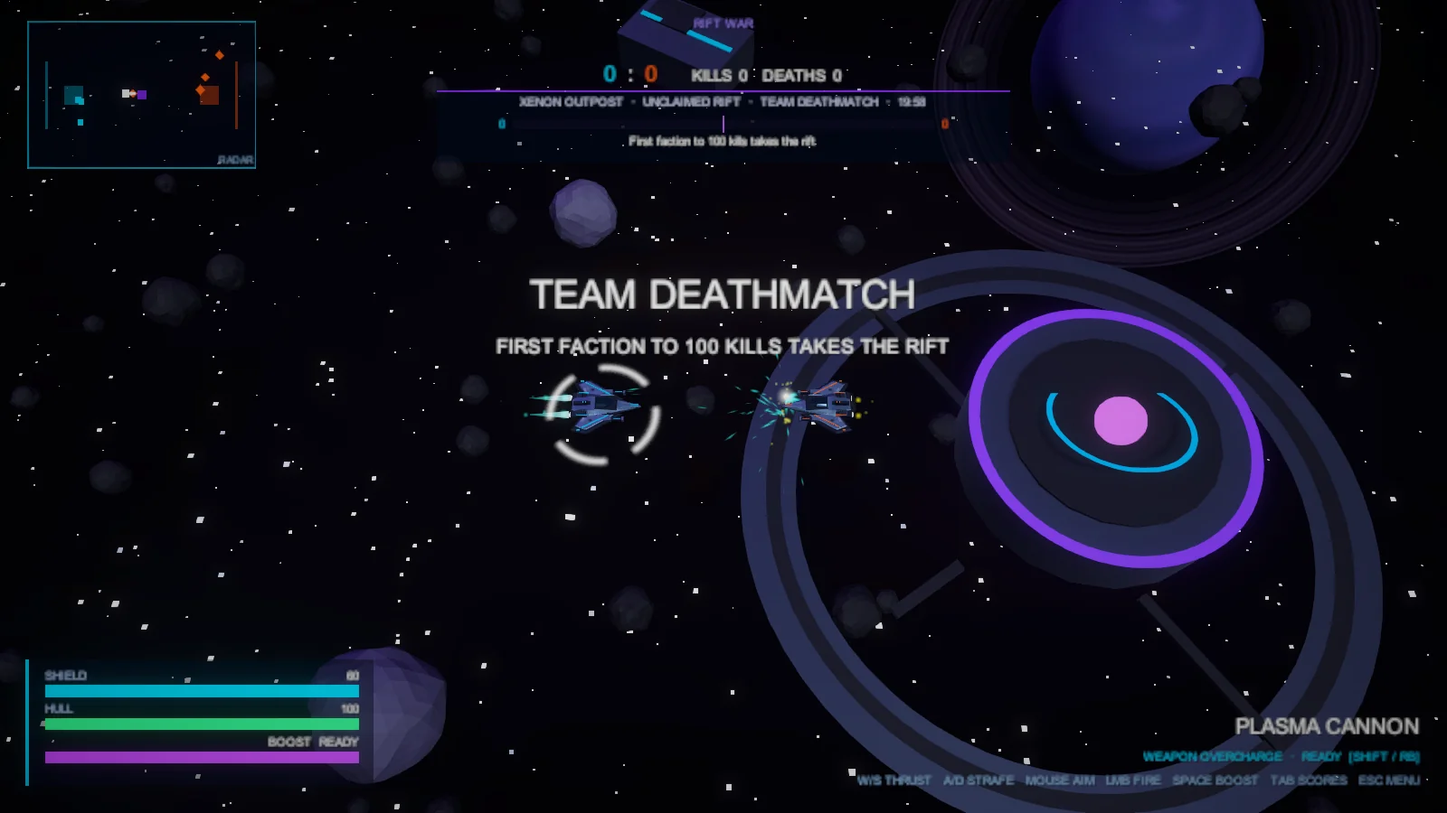
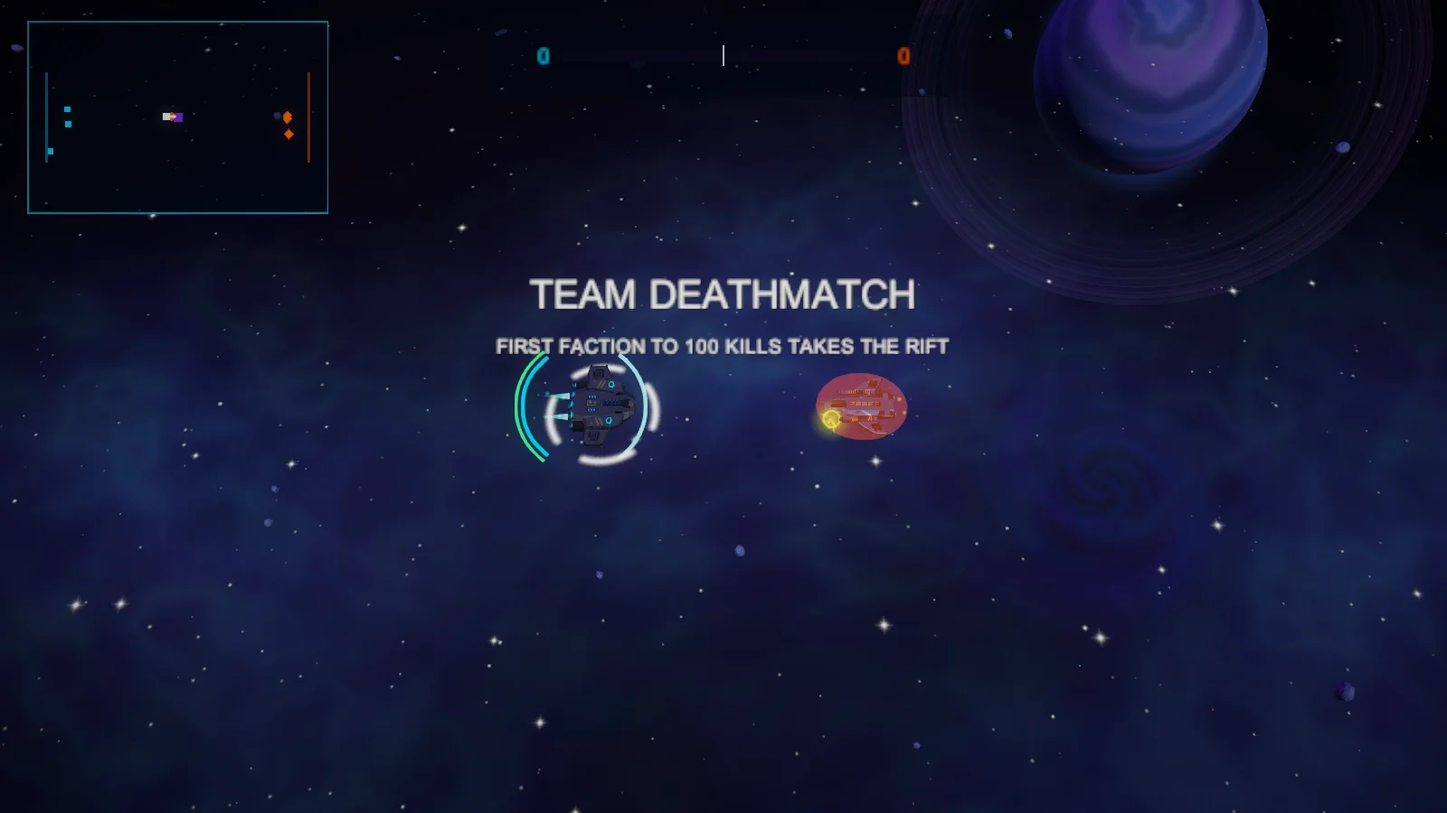
feat: sync website screenshots, copy, and controls with current game state

diff --git a/index.html b/index.html
@@ -40,11 +40,11 @@
         <h1 id="hero-title"><span class="sr-only">Xenon Rift: </span>Your ship.<br>Your fleet.<br><span class="text-cyan">Your fight.</span></h1>
         <p class="hero-description">Fly a fighter in <strong>12v12 Fleet Battles</strong> around carriers and destroyers. Defend your fleet, take theirs apart, and push the front line across a persistent galaxy.</p>
         <a class="btn btn-primary" href="#play">Join the playtest <span aria-hidden="true">↗</span></a>
-        <p class="hero-note">Mac playtests · iPhone, iPad &amp; Apple TV controller testing</p>
+        <p class="hero-note">Mac, iPhone, iPad &amp; Apple TV TestFlight · Touch &amp; controller support</p>
       </div>
       <figure class="hero-visual">
-        <a class="capture-link" href="./images/gameplay/fleet.webp" data-full="./images/gameplay/fleet.webp" data-caption="Carrier, destroyers, and fighters at Xenon Outpost — in-game development capture" aria-label="Enlarge Fleet Battle capture">
-          <img src="./images/gameplay/fleet.webp" srcset="./images/gameplay/fleet-800.webp 800w, ./images/gameplay/fleet.webp 1600w" sizes="(max-width: 900px) 92vw, 55vw" width="1600" height="900" alt="A cyan carrier and destroyers alongside fighters and the orange enemy fleet in open space" fetchpriority="high">
+        <a class="capture-link" href="./images/gameplay/fleet.webp" data-full="./images/gameplay/fleet.webp" data-caption="Carrier, destroyers, fighters, and the fleet-strip HUD at Xenon Outpost — in-game development capture" aria-label="Enlarge Fleet Battle capture">
+          <img src="./images/gameplay/fleet.webp" srcset="./images/gameplay/fleet-800.webp 800w, ./images/gameplay/fleet.webp 1600w" sizes="(max-width: 900px) 92vw, 55vw" width="1600" height="900" alt="A cyan carrier and destroyers alongside fighters, enemy fleet markers, and the top-center fleet strip in open space" fetchpriority="high">
           <span class="capture-enlarge" aria-hidden="true">↗</span>
         </a>
         <figcaption>In-game development capture · Xenon Outpost</figcaption>
@@ -54,9 +54,9 @@
     <section class="section container" id="fleet-battle" aria-labelledby="battle-title">
       <div class="section-heading"><p class="eyebrow">SOL ALLIANCE / ZHURAK HEGEMONY</p><h2 id="battle-title">Small fighter. Big battle.</h2></div>
       <div class="feature-grid">
-        <article><h3>Break the enemy fleet</h3><p>Each faction fields a carrier and two or three destroyers. Escort your ships, knock out enemy turrets and launch bays, and destroy every enemy capital ship to win the rift. No match clock.</p></article>
-        <article><h3>Move the front line</h3><p>Pick an open front on the galactic map and drop into its battle. Victories change control of rifts. Take the enemy capital to win the war and begin a new cycle. Bots fill empty fighter slots and keep battles moving when pilots are away.</p></article>
-        <article><h3>Learn offline</h3><p>Practice Fleet Battle or Team Deathmatch against bots without an account or server connection. Online, launch from your fleet’s working bays and watch for reactor blasts and forming gravity wells.</p></article>
+        <article><h3>Break the enemy fleet</h3><p>Each faction fields a carrier and two or three destroyers armed with heavy main guns and point-defense turrets. Strip enemy turrets, wreck the carrier’s launch bays, or drain its 100-fighter reserve so their pilots must warp in from their base Xenon Rift with double the respawn wait. Destroy every enemy capital ship to win the rift. No match clock.</p></article>
+        <article><h3>Move the front line</h3><p>Choose your side once per Rift Cycle—your faction holds until a capital falls and the galaxy re-forms. Pick an open front on the galactic map and drop into its battle. Victories capture and lock rifts, opening adjacent fronts. Bots fill empty fighter slots and keep battles moving when pilots are away.</p></article>
+        <article><h3>Learn offline</h3><p>Practice a 12v12 Fleet Battle, Team Deathmatch, or a full Offline Rift War against bots without an account or server connection. Track both fleets on the visual fleet-strip HUD and ship rings, while the ship-computer announcer calls out carrier attacks, reactor blasts, and forming gravity wells.</p></article>
       </div>
     </section>
 
@@ -64,9 +64,9 @@
       <div class="container">
         <div class="section-heading"><p class="eyebrow">THREE SHIPS / THREE WAYS TO FIGHT</p><h2 id="ships-title">Find your fighter.</h2></div>
         <div class="ships-grid">
-          <article class="ship-card"><img src="./images/ships/interceptor.webp" width="720" height="540" alt="White delta-wing Interceptor with twin nose cannons and cyan energy conduits" loading="lazy"><div class="ship-copy"><h3>Interceptor</h3><p>Fast and light. Pick your angle, strike, and slip away.</p><div class="ability"><span>SPECIAL / PHASE DASH</span><p>Dash in your movement direction to reposition. You cannot fire during the dash.</p></div></div></article>
+          <article class="ship-card"><img src="./images/ships/interceptor.webp" width="720" height="540" alt="White delta-wing Interceptor with twin nose cannons and cyan energy conduits" loading="lazy"><div class="ship-copy"><h3>Interceptor</h3><p>Fast and light. Pick your angle, strike, and slip away.</p><div class="ability"><span>SPECIAL / PHASE DASH</span><p>Dash in your movement direction to reposition while taking reduced damage. You cannot fire during the dash.</p></div></div></article>
           <article class="ship-card"><img src="./images/ships/striker.webp" width="720" height="540" alt="Dark tactical Striker with outboard cannon pods, swept wings, and cyan dorsal conduits" loading="lazy"><div class="ship-copy"><h3>Striker</h3><p>Balanced speed and firepower. A good place to start.</p><div class="ability"><span>SPECIAL / WEAPON OVERCHARGE</span><p>Temporarily increase your cannon’s fire rate to press the attack.</p></div></div></article>
-          <article class="ship-card"><img src="./images/ships/dreadnought.webp" width="720" height="540" alt="Broad siege Dreadnought with armored shoulders, a central reactor cage, and five stern thrusters" loading="lazy"><div class="ship-copy"><h3>Dreadnought</h3><p>Heavy armor and shields. Trade speed for staying power.</p><div class="ability"><span>SPECIAL / PHOTON TORPEDOES</span><p>Launch a three-torpedo salvo that hits capital ships and their subsystems especially hard.</p></div></div></article>
+          <article class="ship-card"><img src="./images/ships/dreadnought.webp" width="720" height="540" alt="Broad siege Dreadnought with armored shoulders, a central reactor cage, and five stern thrusters" loading="lazy"><div class="ship-copy"><h3>Dreadnought</h3><p>Heavy armor and shields. Trade speed for staying power.</p><div class="ability"><span>SPECIAL / PHOTON TORPEDOES</span><p>Launch a three-torpedo salvo that deals 5× damage to capital ships, turrets, and launch bays.</p></div></div></article>
         </div>
         <p class="section-footnote">All three ships are available in practice and online. Balance and visuals are still evolving.</p>
       </div>
@@ -78,17 +78,17 @@
         <a class="btn btn-primary" href="mailto:support@codersbrew.com?subject=Xenon%20Rift%20Mac%20playtest">Request Mac playtest <span aria-hidden="true">↗</span></a>
         <a class="btn btn-secondary" href="mailto:support@codersbrew.com?subject=Xenon%20Rift%20Apple%20device%20testing">Ask about Apple device testing <span aria-hidden="true">↗</span></a>
       </div>
-      <p class="playtest-note">These links open your email app, not a download. Access is not guaranteed. Mac supports keyboard &amp; mouse or gamepad. iPhone, iPad, and Apple TV gameplay requires a compatible controller; no touch flight controls yet. Siri Remote alone is not supported.</p>
+      <p class="playtest-note">These links open your email app, not a download. Access is not guaranteed. Mac supports keyboard &amp; mouse or gamepad. iPhone, iPad, and Android support built-in touch flight controls or a compatible controller. Apple TV gameplay requires a compatible controller to fly (the Siri Remote navigates menus, and you can sign in from your phone at <a href="./link/">xenonrift.com/link</a>; Siri Remote alone is not supported for flight).</p>
       <ol class="steps-grid">
-        <li><h3>1. Try Practice</h3><p>Choose your ship on the Pilot page, then start Practice. Learn movement, aiming, and your special against bots.</p></li>
-        <li><h3>2. Sign in</h3><p>For online play, sign in with Google, Apple, or email. Choose a unique call sign; your profile and career stats follow your account.</p></li>
-        <li><h3>3. Drop in</h3><p>Choose Multiplayer, pick an open front on the galactic map, and select Drop In. No server address to enter.</p></li>
+        <li><h3>1. Try Practice</h3><p>Choose your default ship in the Hangar, then open Practice to fly a 12v12 Fleet Battle, Team Deathmatch, or Offline Rift War against bots.</p></li>
+        <li><h3>2. Sign in</h3><p>Open Rift War or your Pilot Profile and sign in with Google, Apple, or email (or with your phone on Apple TV). Choose a unique call sign; your profile and career stats follow your account.</p></li>
+        <li><h3>3. Drop in</h3><p>In Rift War, choose your side for the current war cycle, pick an open front on the galactic map, and select Drop In. No server address to enter.</p></li>
       </ol>
-      <details class="controls-panel"><summary>Flight controls</summary><div class="controls-scroll"><table><caption class="sr-only">Default keyboard, mouse, and twin-stick gamepad controls</caption><thead><tr><th scope="col">Action</th><th scope="col">Keyboard &amp; mouse</th><th scope="col">Gamepad</th></tr></thead><tbody><tr><th scope="row">Thrust / strafe</th><td>W / S · A / D (ship-relative)</td><td>Left stick (screen-relative)</td></tr><tr><th scope="row">Aim / fire</th><td>Mouse / left click</td><td>Right stick / right trigger</td></tr><tr><th scope="row">Ship special</th><td>Space or Left Shift</td><td>Either bumper</td></tr><tr><th scope="row">Scoreboard</th><td>Hold Tab</td><td>Hold View / Select</td></tr><tr><th scope="row">Return to menu</th><td>Esc</td><td>Start / Menu</td></tr></tbody></table></div><p>Controller styles and stick options are available in Settings.</p></details>
+      <details class="controls-panel"><summary>Flight controls</summary><div class="controls-scroll"><table><caption class="sr-only">Default keyboard, mouse, twin-stick gamepad, and touch controls</caption><thead><tr><th scope="col">Action</th><th scope="col">Keyboard &amp; mouse</th><th scope="col">Gamepad</th><th scope="col">Touch (phone / tablet)</th></tr></thead><tbody><tr><th scope="row">Thrust / strafe</th><td>W / S · A / D (ship-relative)</td><td>Left stick (screen-relative)</td><td>Left thumb floating stick (screen-relative)</td></tr><tr><th scope="row">Aim / fire</th><td>Mouse / left click</td><td>Right stick / right trigger</td><td>Right thumb floating stick (fires while pushed)</td></tr><tr><th scope="row">Ship special</th><td>Space or Left Shift</td><td>Either bumper</td><td>Special button above aim stick</td></tr><tr><th scope="row">Scoreboard</th><td>Hold Tab</td><td>Hold View / Select</td><td>Hold SCORES</td></tr><tr><th scope="row">Return to menu</th><td>Esc</td><td>Start / Menu</td><td>Tap MENU, then LEAVE?</td></tr></tbody></table></div><p>Gamepad styles, stick options, touch controls (Auto / On / Off and Left-handed layout), and ship-computer announcer voices (Female AI, Male AI, Tactical Droid) are available in Settings.</p></details>
       <div class="faq-list">
-        <details><summary>Can I play without other players?</summary><p>Yes. Practice runs offline against bots without signing in. Online, bots fill open fighter slots so you can join even when few people are playing.</p></details>
-        <details><summary>Does the online galaxy keep going when I leave?</summary><p>Yes. The dedicated galaxy keeps its war state and runs battles with bots while pilots are away. Your game does not need to stay open. Offline practice is separate from the shared online war.</p></details>
-        <details><summary>What if I cannot join?</summary><p>Use the current playtest build and check the galaxy status shown in the game’s Multiplayer menu. If a connection drops, return to the menu and try joining again. Follow the first-launch instructions supplied with your build.</p></details>
+        <details><summary>Can I play without other players?</summary><p>Yes. Practice runs offline against bots without signing in—either a single 12v12 battle or a full Offline Rift War across the galaxy. Online, bots fill open fighter slots so you can join even when few people are playing.</p></details>
+        <details><summary>Does the online galaxy keep going when I leave?</summary><p>Yes. The dedicated galaxy saves its war state in the database and runs battles with bots while pilots are away. Your game does not need to stay open. Offline practice is separate from the shared online war.</p></details>
+        <details><summary>What if I cannot join?</summary><p>Use the current playtest build and check the galaxy status shown on the Rift War button in the main menu. If a front closes after its battle or a connection drops, return to the map or menu and join an open front. Follow the first-launch instructions supplied with your build.</p></details>
         <details><summary>Need help or want to report a bug?</summary><p><a href="mailto:support@codersbrew.com?subject=Xenon%20Rift%20help">Ask for help ↗</a>. Include your device, build version, what happened, and steps to reproduce it. Do not send passwords or sign-in tokens.</p></details>
       </div>
     </section>

diff --git a/tests/landing.spec.js b/tests/landing.spec.js
@@ -43,15 +43,19 @@ test('gameplay copy describes current fleets, factions, galaxy, and specials', a
   await expect(page.locator('.hero-description')).toContainText('12v12 Fleet Battles');
   const battle = page.locator('#fleet-battle');
   await expect(page.locator('.hero-description')).toContainText('persistent galaxy');
-  for (const fact of ['SOL ALLIANCE', 'ZHURAK HEGEMONY', 'carrier and two or three destroyers',
-    'turrets and launch bays', 'No match clock', 'Team Deathmatch']) {
+  for (const fact of [
+    'SOL ALLIANCE', 'ZHURAK HEGEMONY', 'carrier and two or three destroyers',
+    'main guns and point-defense turrets', '100-fighter reserve', 'base Xenon Rift',
+    'double the respawn wait', 'Choose your side once per Rift Cycle',
+    'No match clock', 'Team Deathmatch', 'Offline Rift War', 'fleet-strip HUD', 'announcer',
+  ]) {
     await expect(battle).toContainText(fact);
   }
   const cards = page.locator('.ship-card');
   await expect(cards).toHaveCount(3);
   for (const special of ['PHASE DASH', 'WEAPON OVERCHARGE', 'PHOTON TORPEDOES']) await expect(page.locator('#ships')).toContainText(special);
   for (const retired of ['10v10', 'Cyan Vanguard', 'Ember Syndicate', 'Capture the Depot',
-    'Offense vs Defense', 'BARRIER PULSE', 'session-only', 'Boost']) {
+    'Offense vs Defense', 'BARRIER PULSE', 'session-only', 'Boost', 'no touch flight controls']) {
     await expect(page.locator('body')).not.toContainText(retired);
   }
 });
@@ -73,7 +77,7 @@ test('keyboard opens image dialog, traps focus, closes, and restores focus', asy
   await page.keyboard.press('Enter');
   const dialog = page.getByRole('dialog');
   await expect(dialog).toBeVisible();
-  await expect(dialog).toContainText('Carrier, destroyers, and fighters');
+  await expect(dialog).toContainText('Carrier, destroyers, fighters, and the fleet-strip HUD');
   await expect(dialog.locator('img')).toHaveAttribute('alt', /cyan carrier and destroyers/);
   await page.keyboard.press('Tab');
   expect(await page.evaluate(() => !!document.activeElement.closest('dialog'))).toBe(true);
@@ -94,8 +98,9 @@ test('playtest availability and Apple device requirements stay explicit', async 
   await expect(page).toHaveURL(/#play$/);
   await expect(page.getByRole('heading', { name: 'Come help shape the Rift.' })).toBeInViewport();
   await expect(page.locator('.playtest-note')).toContainText('email app, not a download');
-  await expect(page.locator('.playtest-note')).toContainText('requires a compatible controller');
-  await expect(page.locator('.playtest-note')).toContainText('no touch flight controls');
+  await expect(page.locator('.playtest-note')).toContainText('iPhone, iPad, and Android support built-in touch flight controls');
+  await expect(page.locator('.playtest-note')).toContainText('Apple TV gameplay requires a compatible controller to fly');
+  await expect(page.locator('.playtest-note')).toContainText('xenonrift.com/link');
   await expect(page.locator('.playtest-note')).toContainText('Siri Remote alone is not supported');
   for (const name of ['Request Mac playtest', 'Ask about Apple device testing']) {
     await expect(page.getByRole('link', { name })).toHaveAttribute('href', /^mailto:support@codersbrew\.com\?subject=/);
@@ -106,8 +111,9 @@ test('playtest availability and Apple device requirements stay explicit', async 
 test('first-flight instructions use accounts and the galaxy, not manual server setup', async ({ page }) => {
   await page.goto('/');
   const steps = page.locator('.steps-grid');
-  for (const fact of ['Practice', 'Google, Apple, or email', 'unique call sign', 'career stats',
-    'Multiplayer', 'galactic map', 'Drop In', 'No server address to enter']) await expect(steps).toContainText(fact);
+  for (const fact of ['Hangar', 'Practice', 'Offline Rift War', 'Rift War', 'Pilot Profile',
+    'Google, Apple, or email', 'unique call sign', 'career stats',
+    'choose your side', 'galactic map', 'Drop In', 'No server address to enter']) await expect(steps).toContainText(fact);
   expect(await page.locator('[data-copy], #server-address, #starfield').count()).toBe(0);
 });
 
@@ -116,12 +122,15 @@ test('FAQ and controls explain persistence, offline play, and class specials', a
   await page.getByText('Can I play without other players?', { exact: true }).click();
   await expect(page.getByText('Yes. Practice runs offline against bots', { exact: false })).toBeVisible();
   await page.getByText('Does the online galaxy keep going when I leave?', { exact: true }).click();
-  await expect(page.getByText('The dedicated galaxy keeps its war state', { exact: false })).toBeVisible();
+  await expect(page.getByText('The dedicated galaxy saves its war state', { exact: false })).toBeVisible();
   await page.locator('.controls-panel summary').click();
   await expect(page.getByRole('table')).toBeVisible();
   const special = page.getByRole('row').filter({ has: page.getByRole('rowheader', { name: 'Ship special' }) });
   await expect(special).toContainText('Space or Left Shift');
   await expect(special).toContainText('Either bumper');
+  await expect(special).toContainText('Special button above aim stick');
+  await expect(page.locator('.controls-panel')).toContainText('Left-handed layout');
+  await expect(page.locator('.controls-panel')).toContainText('announcer voices');
   await expect(page.getByRole('table')).not.toContainText('Boost');
   expect(await page.evaluate(() => document.documentElement.scrollWidth <= innerWidth)).toBe(true);
 });

diff --git a/privacy/index.html b/privacy/index.html
@@ -30,7 +30,7 @@
     <header class="legal-heading">
       <p class="eyebrow">CODERSBREW / PLAYER INFORMATION</p>
       <h1>Privacy Policy</h1>
-      <p class="legal-date">Last updated: <time datetime="2026-11-04">November 4, 2026</time></p>
+      <p class="legal-date">Last updated: <time datetime="2026-11-09">November 9, 2026</time></p>
       <p class="legal-summary">Your pilot information, your choices. Here is what Xenon Rift handles, why we use it, and how to contact us or delete your account.</p>
     </header>
     <div class="legal-layout">
@@ -57,7 +57,7 @@
           <h2 id="information-title">2. Information we handle</h2>
           <ul>
         <li><strong>Account information:</strong> your email address, account identifier, sign-in provider, and account/session records. Email-and-password authentication is handled by Supabase. Google and Apple sign-in provide the identity information you authorize, such as an email address and provider identifier; Apple may provide a relay email.</li>
-        <li><strong>Pilot profile and gameplay:</strong> call sign, selected ship, and recorded online career statistics such as kills, deaths, matches played or won, and time played. Online servers associate these records with your account.</li>
+        <li><strong>Pilot profile and gameplay:</strong> call sign, selected ship, current war-cycle faction choice, and recorded online career statistics such as kills, deaths, matches played or won, and time played. Online servers associate these records with your account.</li>
         <li><strong>Technical and security information:</strong> network addresses, connection times, build/version information, and diagnostic or server logs used to operate the service, investigate errors, and prevent abuse.</li>
         <li><strong>Support information:</strong> emails, device details, screenshots, and other information you choose to send us. Please do not send passwords, sign-in codes, access tokens, or private keys.</li>
       </ul><p>Offline practice does not require an account. The game may keep preferences and session information on your device; online career records are separate from offline play.</p>
@@ -83,7 +83,7 @@
         </section>
         <section id="retention" aria-labelledby="retention-title">
           <h2 id="retention-title">6. Retention and account deletion</h2>
-          <p>We retain account and career information while your account is active and as needed to provide the service. Security, diagnostic, and support records are kept as needed for their operational purpose or legal obligations; retention varies by record type.</p><p>You can delete your account from the game’s <strong>Pilot → Account → Delete Account</strong> flow. Deletion removes the account and associated profile and career records from the active account database. Signing out or uninstalling the game does not delete your account.</p><p>If you cannot access the game, email <a href="mailto:support@codersbrew.com?subject=Xenon%20Rift%20account%20deletion">support@codersbrew.com</a> to request deletion. We may need to verify account ownership. Limited information may remain in backups, security records, or records we must retain by law; it is not kept as an active pilot profile. Deleting an account does not remove messages or screenshots already shared with other people.</p>
+          <p>We retain account and career information while your account is active and as needed to provide the service. Security, diagnostic, and support records are kept as needed for their operational purpose or legal obligations; retention varies by record type.</p><p>You can delete your account from the game’s <strong>Pilot Profile → Delete Account</strong> flow (opened from your pilot chip in the main menu). Deletion removes the account and associated profile and career records from the active account database. Signing out or uninstalling the game does not delete your account.</p><p>If you cannot access the game, email <a href="mailto:support@codersbrew.com?subject=Xenon%20Rift%20account%20deletion">support@codersbrew.com</a> to request deletion. We may need to verify account ownership. Limited information may remain in backups, security records, or records we must retain by law; it is not kept as an active pilot profile. Deleting an account does not remove messages or screenshots already shared with other people.</p>
         </section>
         <section id="choices" aria-labelledby="choices-title">
           <h2 id="choices-title">7. Your choices and rights</h2>

diff --git a/terms/index.html b/terms/index.html
@@ -30,7 +30,7 @@
     <header class="legal-heading">
       <p class="eyebrow">CODERSBREW / PLAYER INFORMATION</p>
       <h1>Terms of Service</h1>
-      <p class="legal-date">Last updated: <time datetime="2026-11-04">November 4, 2026</time></p>
+      <p class="legal-date">Last updated: <time datetime="2026-11-09">November 9, 2026</time></p>
       <p class="legal-summary">The ground rules for flying with us: fair play, account responsibilities, development builds, and your rights.</p>
     </header>
     <div class="legal-layout">
@@ -81,7 +81,7 @@
         </section>
         <section id="termination" aria-labelledby="termination-title">
           <h2 id="termination-title">7. Suspension, leaving, and deletion</h2>
-          <p>We may restrict or suspend access to address cheating, abuse, security risks, legal requirements, or material violations of these terms. Where appropriate, we will consider the severity of the issue and provide an explanation or opportunity to contact us; urgent protection of the service may require immediate action.</p><p>You may stop using the service at any time. To delete your account, use <strong>Pilot → Account → Delete Account</strong> in the game, or contact <a href="mailto:support@codersbrew.com?subject=Xenon%20Rift%20account%20deletion">support@codersbrew.com</a> if you cannot access it. See our <a href="../privacy/#retention">Privacy Policy</a> for data-retention details. Contact support if you believe an access restriction was made in error.</p>
+          <p>We may restrict or suspend access to address cheating, abuse, security risks, legal requirements, or material violations of these terms. Where appropriate, we will consider the severity of the issue and provide an explanation or opportunity to contact us; urgent protection of the service may require immediate action.</p><p>You may stop using the service at any time. To delete your account, use <strong>Pilot Profile → Delete Account</strong> in the game, or contact <a href="mailto:support@codersbrew.com?subject=Xenon%20Rift%20account%20deletion">support@codersbrew.com</a> if you cannot access it. See our <a href="../privacy/#retention">Privacy Policy</a> for data-retention details. Contact support if you believe an access restriction was made in error.</p>
         </section>
         <section id="liability" aria-labelledby="liability-title">
           <h2 id="liability-title">8. Disclaimers and your legal rights</h2>

diff --git a/tests/legal.spec.js b/tests/legal.spec.js
@@ -52,7 +52,7 @@ for (const doc of documents) {
       expect(await page.evaluate(() => document.querySelector('.legal-toc').getBoundingClientRect().top <=
         document.querySelector('.legal-copy').getBoundingClientRect().top), 'contents before article at width ' + width).toBe(true);
     }
-    await expect(page.getByRole('article')).toContainText('Pilot → Account → Delete Account');
+    await expect(page.getByRole('article')).toContainText('Pilot Profile → Delete Account');
     await expect(page.getByRole('article').getByRole('link', { name: support, exact: true }).first())
       .toHaveAttribute('href', /^mailto:support@codersbrew\.com(?:\?|$)/);
     expect(await page.locator('script').count()).toBe(0);

diff --git a/tools/prepare-images.py b/tools/prepare-images.py
@@ -36,6 +36,7 @@ if args.fleet_only:
 
 if not args.ships_only and not args.fleet_only:
     for name, filename in {
+        "fleet": "fleet_2_cyan_fleet.png",
         "skirmish": "06_skirmish.png",
         "boost": "04_boost.png",
         "combat": "02_combat.png",

diff --git a/README.md b/README.md
@@ -17,16 +17,17 @@ Node 22.12+ recommended. Tests run against production preview on port 4173, on d
 ## Content rules
 
 - Lead with gameplay and player choices, not engine/network implementation.
-- Lead mode is 12v12 Fleet Battle: each faction has a carrier and two or three destroyers; destroy every enemy capital ship to take the rift. No match clock.
-- Factions are Sol Alliance and Zhurak Hegemony. The dedicated online galaxy persists and bots keep battles moving; offline Practice is separate and needs no sign-in.
-- Current specials: Phase Dash, Weapon Overcharge, Photon Torpedoes. Space/Shift and either gamepad bumper activate the class special; ordinary boost is disabled.
-- Multiplayer uses account sign-in and the galactic map, not manual server-address entry. Do not promise per-cycle faction enforcement; it remains unfinished.
-- iPhone/iPad and Apple TV gameplay requires a compatible controller; no touch flight controls, and Siri Remote alone is unsupported.
+- Lead mode is 12v12 Fleet Battle: each faction has a carrier and two or three destroyers armed with heavy main guns and point-defense turrets; destroy every enemy capital ship to take the rift. No match clock.
+- Only the carrier has launch bays and holds a 100-fighter reserve. If the carrier's bays are wrecked, its 100-fighter reserve is spent, or the carrier is sunk, pilots warp in from their base Xenon Rift (an orbital containment ring) with double the respawn wait.
+- Factions are Sol Alliance and Zhurak Hegemony. Pilots choose one side per Rift Cycle (faction lock until a capital falls and the galaxy re-forms). The dedicated online galaxy persists in the database and bots keep battles moving; offline Practice (Fleet Battle, Team Deathmatch, or Offline Rift War) is separate and needs no sign-in.
+- Current specials: Phase Dash (reduced incoming damage while dashing), Weapon Overcharge, Photon Torpedoes (5× damage to capital ships, turrets, and bays). Space/Shift, either gamepad bumper, or the touch Special button activates the class special; ordinary boost is disabled.
+- Main menu uses Rift War (online multiplayer), Practice, Hangar (ship selection), Settings (controller, touch, audio/announcer voices), and the top-right Pilot Profile chip (call sign, account sign-in/sign-out, career stats, account deletion).
+- iPhone, iPad, and Android support built-in floating twin-stick touch controls (with Auto/On/Off and Left-handed options in Settings) or a compatible controller. Apple TV requires a compatible controller to fly (Siri Remote navigates menus, and pilots can sign in from a phone at `/link/`; Siri Remote alone cannot fly).
 - No published release was returned by GitHub when this refresh was checked. Keep email playtest CTAs; do not invent direct downloads, a public TestFlight invite, App Store availability, or launch dates.
 - Playtest, support, and contact links use `support@codersbrew.com`. They do not enroll users or guarantee access.
 - Public legal pages: `/privacy/` and `/terms/`. See [LEGAL_CONTENT.md](LEGAL_CONTENT.md) for scope, maintenance, and release review.
 - The website does not show live server status. The game checks galaxy availability and build compatibility.
-- Gameplay images are in-engine development captures, labeled as such. The Fleet Battle hero replaces old station/boost captures. Ship art is unchanged and rendered from game models.
+- Gameplay images are in-engine development captures, labeled as such. The Fleet Battle hero shows the visual fleet-strip HUD, reserve pips, and capital silhouettes. Ship art is rendered from game models.
 
 Before enabling direct downloads, verify anonymously accessible assets, matching server/client versions, signing/notarization, minimum OS/device support, version, release date, and file size. Update availability copy and regression tests together. Real gameplay video can replace the hero capture when footage is available; don't present a screenshot slideshow as gameplay video.
 
@@ -51,7 +52,7 @@ Export only the current fleet image without replacing reviewed ship renders or o
 /tmp/xenonrift-web-images/bin/python tools/prepare-images.py /path/to/game-capture-worktree --fleet-only
 ```
 
-Requires `Logs/Screenshots/fleet_2_cyan_fleet.png`. Current export uses the 1600×900 capture from `../xenonrift-turrets` at game revision `57fe17a` (merged into game main `741b7ec`). Full frame is preserved; exports are 1600 and 800 pixels wide. Old captures remain available as historical assets but are not linked from the refreshed homepage.
+Requires `Logs/Screenshots/fleet_2_cyan_fleet.png`. Current export uses the 1600×900 capture from `../xenonrift` at game revision `9f6ba39` / `8f21f37` (visual fleet-strip HUD, reserve pips, and capital main guns). Full frame is preserved; exports are 1600 and 800 pixels wide. Old captures remain available as historical assets but are not linked from the refreshed homepage.
 
 ### Refresh ships after a game model change
 

diff --git a/DEVELOPMENT_STATUS.md b/DEVELOPMENT_STATUS.md
@@ -1,6 +1,21 @@
 # Website development status
 
-## Current game refresh
+## Current game state sync (2026-11-09)
+
+Updated website copy, gameplay captures, controls, and legal deletion references to match the current game state (`../xenonrift` at `9f6ba39` / `8f21f37`).
+
+### Updated in this refresh
+
+- **Hero & gameplay screenshots**: Re-exported `public/images/gameplay/{fleet,skirmish,combat,galaxy}{,-800}.webp` from current game captures (`Logs/Screenshots/`), replacing the retired text-panel HUD in `fleet.webp` with the current visual **fleet-strip HUD** (capital silhouettes, 100-fighter reserve pips, launch indicators) and **on-ship rings**. Reviewed ship renders (`interceptor.webp`, `striker.webp`, `dreadnought.webp`) remain unchanged.
+- **Fleet Battle & Xenon Rift mechanics**: Updated `#fleet-battle` to reflect heavy anti-capital **main guns** and point-defense **turrets**, carrier-only **launch bays** with a **100-fighter reserve**, and base **Xenon Rift** orbital containment ring spawns with **double the respawn wait** when a carrier's bays are wrecked, its reserve is spent, or the carrier is sunk.
+- **One side per war & durable galaxy**: Updated galactic war copy and onboarding steps to reflect per-cycle **faction lock** (pilots choose a side once per Rift Cycle until a capital falls and the galaxy re-forms) and database-persisted war state.
+- **Main menu & onboarding flow**: Updated first-flight steps and FAQ to use the current menu structure (**Rift War**, **Practice** including **Offline Rift War**, **Hangar**, **Settings**, and **Pilot Profile** opened from the top-right pilot chip), plus Apple TV phone sign-in at `/link/`.
+- **Touch controls & audio**: Replaced the outdated "no touch flight controls yet" notice with built-in floating twin-stick **touch controls** on iPhone, iPad, and Android (with **Auto / On / Off** and **Left-handed layout** in Settings), while keeping the controller requirement for Apple TV flight (Siri Remote navigates menus). Added a **Touch (phone / tablet)** column to the Flight Controls table and documented the three selectable **ship-computer announcer voices** (Female AI, Male AI, Tactical Droid).
+- **Legal pages**: Updated account deletion path in `privacy/index.html` and `terms/index.html` from `Pilot → Account → Delete Account` to `Pilot Profile → Delete Account`, and included war-cycle faction choice in pilot profile disclosures.
+
+---
+
+## Previous refresh (`feat/current-game-site`)
 
 Branch `feat/current-game-site`, based on updated website `main` / `origin/main` at `594bedd` (merged legal pages). Worktree: `../xenonrift-web-refresh`. Original website checkout's unrelated download/template work remains untouched.
 

diff --git a/tasks.md b/tasks.md
@@ -79,4 +79,11 @@
 - [x] Push to GitHub remote and enable GitHub Pages under Actions mode
 - [x] Configure DNS A and CNAME records at domain registrar for `xenonrift.com` (Resolved & Active)
 - [x] Enforce HTTPS on `xenonrift.com` via GitHub Pages SSL certificate
-- [x] Streamline downloads to client-only (macOS & iOS) and remove Linux dedicated server card
+## 7. Current Game State Alignment (2026-11-09)
+- [x] Export updated `fleet.webp` / `fleet-800.webp` (and gameplay captures) from `../xenonrift/Logs/Screenshots/` showing the visual fleet-strip HUD, 100-fighter reserve pips, and on-ship rings
+- [x] Update `#fleet-battle` copy for capital main guns, point-defense turrets, carrier-only launch bays, 100-fighter reserves, and base Xenon Rift orbital containment ring spawns (2× respawn wait)
+- [x] Update galactic war copy for per-cycle faction lock ("Choose your side once per Rift Cycle") and durable database persistence
+- [x] Update `#play` onboarding steps for current menu structure (`Hangar`, `Practice` + `Offline Rift War`, `Rift War`, `Pilot Profile`, and Apple TV phone sign-in at `/link/`)
+- [x] Update platform disclosures and Flight Controls table for built-in floating twin-stick touch controls on iPhone, iPad, and Android (`Auto / On / Off`, `Left-handed layout`) and shipboard announcer voices (`Female AI`, `Male AI`, `Tactical Droid`)
+- [x] Update `privacy/index.html` and `terms/index.html` account deletion path to `Pilot Profile → Delete Account`
+- [x] Update Playwright test suites (`tests/landing.spec.js`, `tests/legal.spec.js`) and verify production build + full test pass
